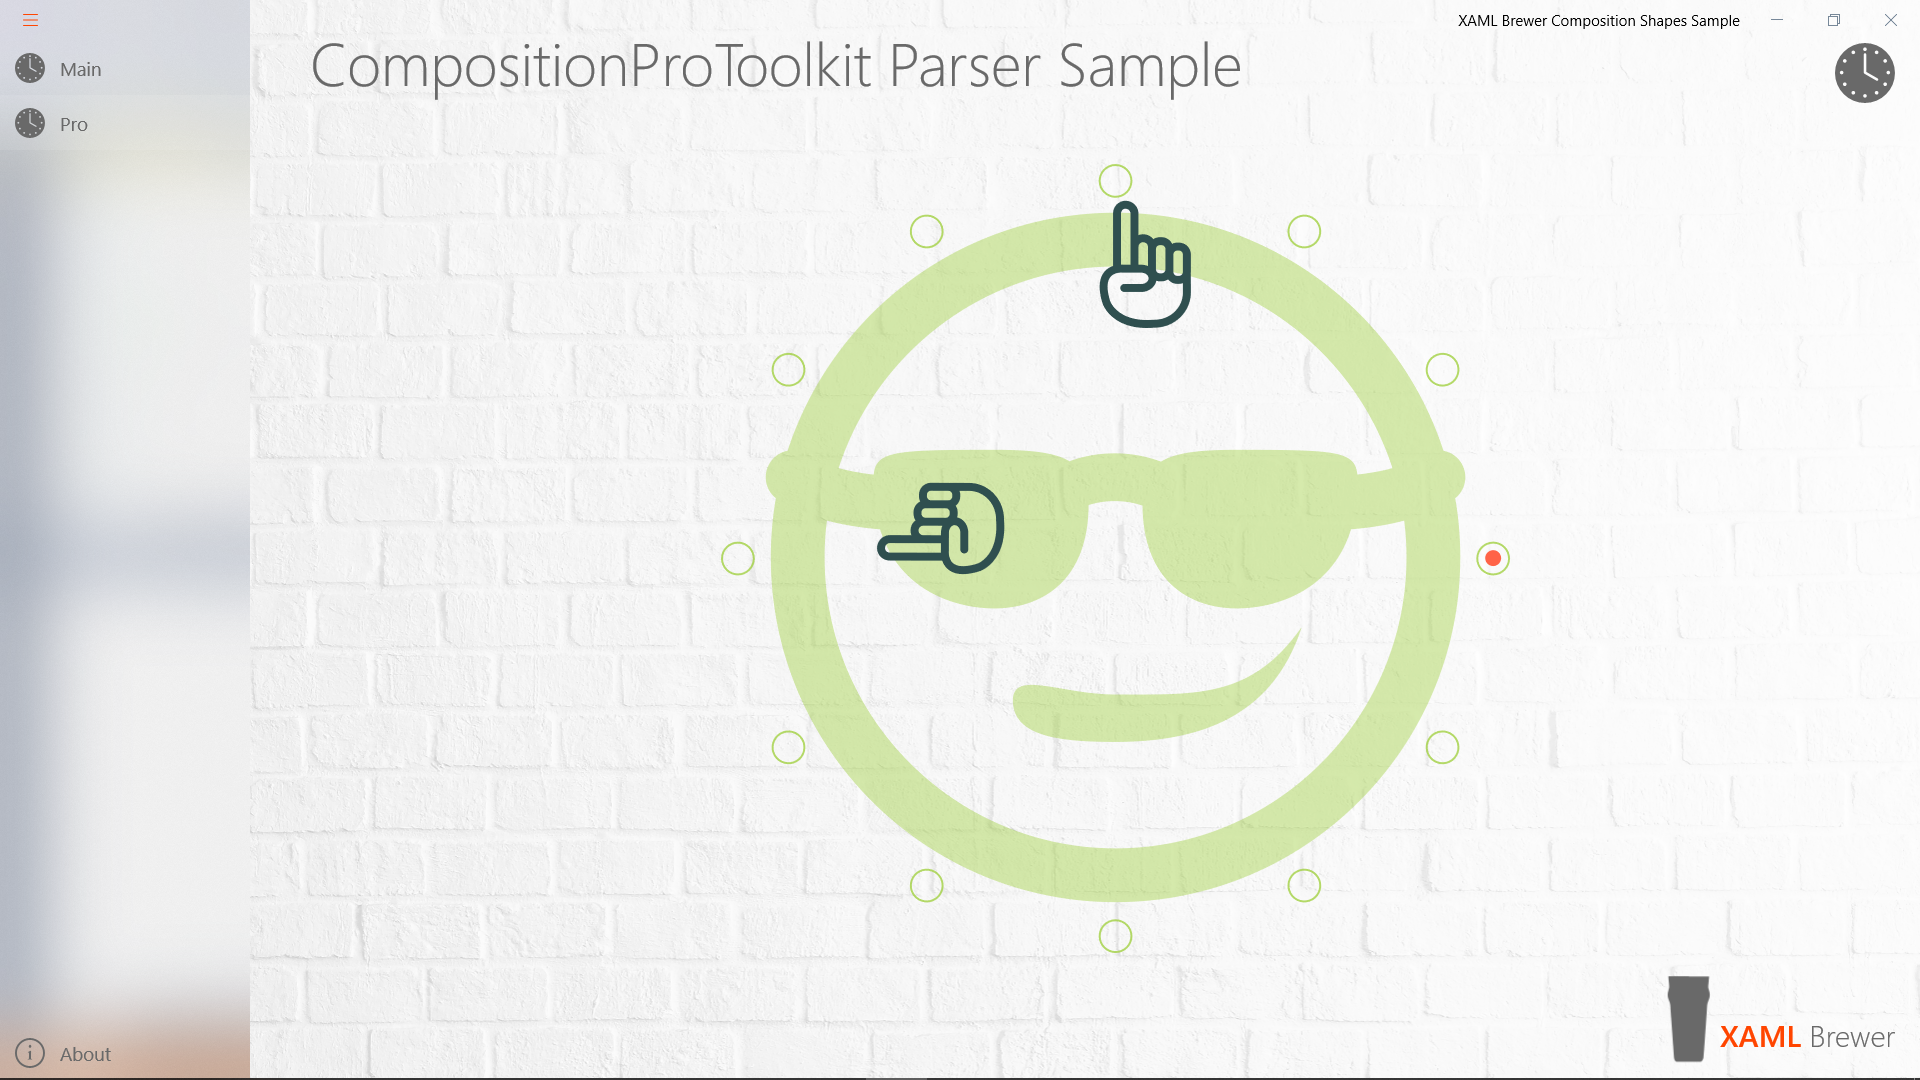
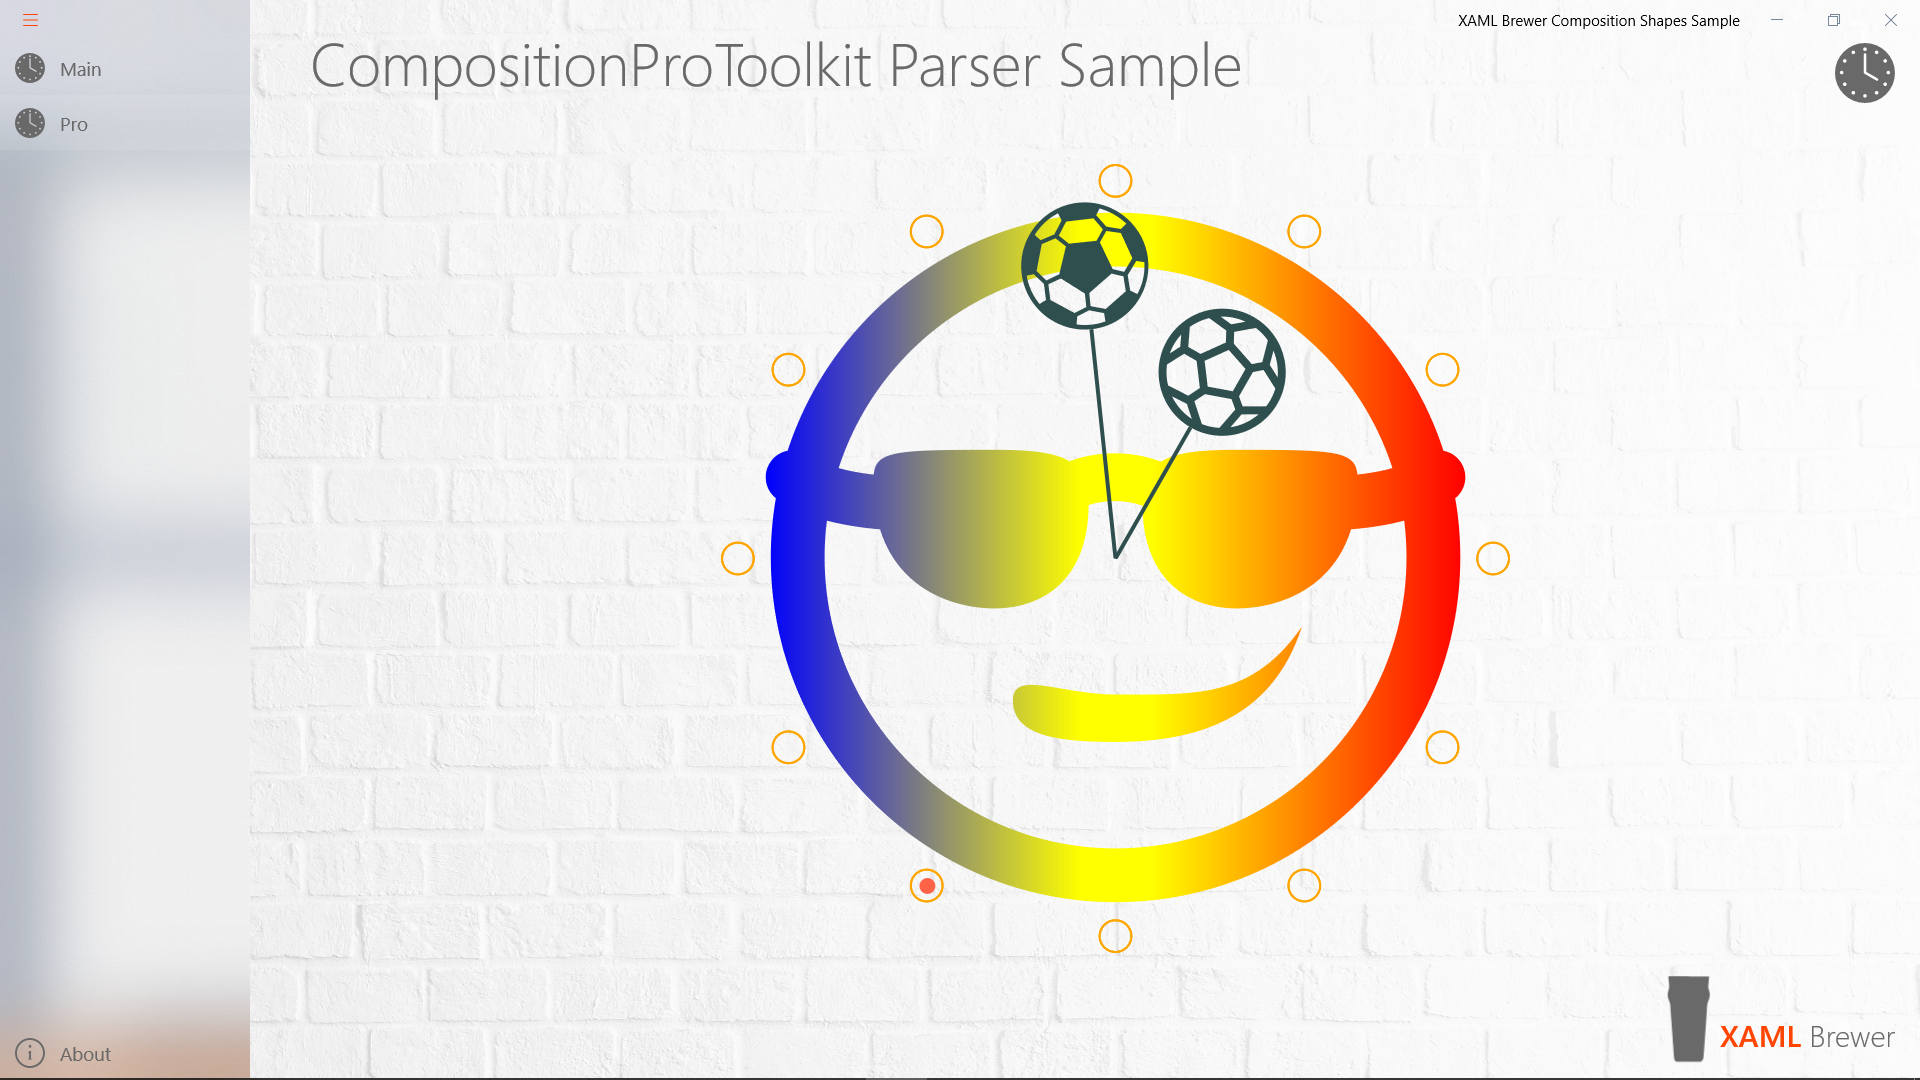
More complex shapes. Less complex code.

Changed region(s): [[0.375, 0.1528, 0.7812, 0.8861]]

diff --git a/XamlBrewer.Uwp.Composition.ShapesSample/Controls/ProClock.xaml.cs b/XamlBrewer.Uwp.Composition.ShapesSample/Controls/ProClock.xaml.cs
@@ -12,12 +12,16 @@ namespace XamlBrewer.Uwp.Controls
 {
     public sealed partial class ProClock : UserControl
     {
+        // Core
         private Compositor _compositor;
         private ContainerVisual _root;
 
-        private CompositionSpriteShape _hourhandSpriteShape;
-        private CompositionSpriteShape _minutehandSpriteShape;
+        // Shapes
+        private CompositionContainerShape _hourContainerShape;
+        private CompositionContainerShape _minuteContainerShape;
         private CompositionSpriteShape _secondhandSpriteShape;
+
+        // Animation
         private CompositionScopedBatch _batch;
 
         private DispatcherTimer _timer = new DispatcherTimer();
@@ -51,7 +55,12 @@ namespace XamlBrewer.Uwp.Controls
             facePathGeometry.Path = faceCompositionPath;
 
             var faceSpriteShape = _compositor.CreateSpriteShape(facePathGeometry);
-            faceSpriteShape.FillBrush = _compositor.CreateColorBrush(Color.FromArgb(0x66, 0x9A, 0xCD, 0x32));
+            var brush = _compositor.CreateLinearGradientBrush();
+            brush.ColorStops.Add(_compositor.CreateColorGradientStop(0f, Colors.Blue));
+            brush.ColorStops.Add(_compositor.CreateColorGradientStop(0.45f, Colors.Yellow));
+            brush.ColorStops.Add(_compositor.CreateColorGradientStop(0.55f, Colors.Yellow));
+            brush.ColorStops.Add(_compositor.CreateColorGradientStop(1f, Colors.Red));
+            faceSpriteShape.FillBrush = brush;
             faceSpriteShape.Offset = new Vector2(12.0f, 13.0f);
             faceSpriteShape.Scale = new Vector2(5.5f); ;
 
@@ -66,13 +75,15 @@ namespace XamlBrewer.Uwp.Controls
                 // SpriteVisual tick;
                 for (int i = 0; i < 12; i++)
                 {
+                    //var tickPath = "M12.981321,2.3376766C10.112283,4.0456734,9.0862758,9.2167526,8.6792905,11.264781L8.5952756,11.687759C8.4882801,12.200765 8.0492818,12.580775 7.5262678,12.610774 7.0102732,12.62179 6.5272682,12.315788 6.3612821,11.820787 6.0932748,11.020759 5.434274,9.7027507 4.5042446,8.0937238 4.4012473,9.374744 4.1832588,10.787755 3.7792644,11.388774L3.7812481,11.389782C1.6152482,14.572802 1.9792339,19.745864 2.0992296,21.445898 2.1232471,21.796884 2.1372549,21.987896 2.1322501,22.133894 2.7132475,29.441991 11.030289,29.958995 11.384295,29.977977L11.3893,29.978984C18.626347,30.366989,21.162375,24.867933,21.465356,24.117925L21.460351,24.087925 21.524379,23.868898C22.646395,20.020862,22.556367,16.784833,21.272362,14.758809L21.198386,14.627795C19.991347,12.086781 19.556348,10.451752 19.431346,9.3477359 18.508366,10.592745 18.09833,12.173788 17.90033,12.936797 17.90033,12.936797 17.578368,13.538793 17.383359,13.683784 17.196345,13.822794 16.723321,13.846811 16.723321,13.846811 16.193349,13.791787 15.789354,13.36478 15.762316,12.831785 15.648362,10.766758 13.78931,6.7087288 13.512331,6.2757097L13.406312,6.0917173C12.817319,4.7286949,12.852322,3.3426624,12.981321,2.3376766z M13.630032,5.2754642E-05C13.988285,0.0030336003 14.340338,0.13233079 14.615335,0.37363419 15.018353,0.72663501 15.199323,1.2516654 15.099347,1.7766651 14.954326,2.545656 14.686319,3.9686766 15.224348,5.2566858 15.578355,5.869699 16.401358,7.6497183 17.015315,9.4797569 17.461362,8.5927224 18.076358,7.6877132 18.930365,6.969718 19.409373,6.5647145 20.074357,6.4957133 20.624346,6.7847181 21.162375,7.068718 21.469384,7.6437369 21.407372,8.2487245 21.288354,9.4187513 21.817349,11.258769 22.980382,13.717781 24.555403,16.251836 24.719407,20.029865 23.455359,24.392921 23.293372,25.284931 22.416352,26.809942 21.317345,28.036945 19.669385,29.877969 16.767327,32.000001 12.150323,32.000001 11.867301,32.000001 11.577321,31.992008 11.282305,31.976017 7.6562736,31.796999 0.66422259,29.52799 0.13223667,22.211896L0.12424106,22.104902 0.14023227,21.996898C0.13324372,21.986888 0.12024314,21.818887 0.10422152,21.585882 -0.027768101,19.715866 -0.42776466,14.025798 2.124254,10.269743 2.2302425,9.9927631 2.5602314,8.7097278 2.5822346,6.3957062 2.5892537,5.7186966 3.0322499,5.140687 3.6862459,4.9606924 4.3362443,4.7846952 5.0102599,5.047699 5.362252,5.6247015 5.851269,6.4257055 6.5582745,7.6167283 7.1722615,8.7877317 7.9332836,5.7157059 9.531286,1.2696405 13.144316,0.07562668 13.303066,0.023440913 13.46719,-0.0013024495 13.630032,5.2754642E-05z";
                     var ellipseGeometry = _compositor.CreateEllipseGeometry();
                     ellipseGeometry.Radius = new Vector2(4.0f, 4.0f);
 
                     var tickSpriteShape = _compositor.CreateSpriteShape(ellipseGeometry);
+
                     tickSpriteShape.FillBrush = _compositor.CreateColorBrush(Colors.Transparent);
                     tickSpriteShape.StrokeThickness = 0.5f;
-                    tickSpriteShape.StrokeBrush = _compositor.CreateColorBrush(Color.FromArgb(0xBB, 0x9A, 0xCD, 0x32));
+                    tickSpriteShape.StrokeBrush = _compositor.CreateColorBrush(Colors.Orange);
                     tickSpriteShape.Offset = new Vector2(100.0f, 5.0f);
                     tickSpriteShape.CenterPoint = new Vector2(0.0f, 95.0f);
                     tickSpriteShape.RotationAngleInDegrees = i * 30;
@@ -97,33 +108,60 @@ namespace XamlBrewer.Uwp.Controls
             _secondhandSpriteShape.Offset = new Vector2(100f, 5f);
             _secondhandSpriteShape.CenterPoint = new Vector2(0.0f, 95.0f);
 
-            var handShapeVisual = _compositor.CreateShapeVisual();
-            handShapeVisual = _compositor.CreateShapeVisual();
-            handShapeVisual.Size = new Vector2(200.0f, 200.0f);
-            handShapeVisual.Shapes.Add(_secondhandSpriteShape);
-            _root.Children.InsertAtTop(handShapeVisual);
+            var shapeVisual = _compositor.CreateShapeVisual();
+            shapeVisual = _compositor.CreateShapeVisual();
+            shapeVisual.Size = new Vector2(200.0f, 200.0f);
+            shapeVisual.Shapes.Add(_secondhandSpriteShape);
+            _root.Children.InsertAtTop(shapeVisual);
             _secondhandSpriteShape.RotationAngleInDegrees = (float)(int)DateTime.Now.TimeOfDay.TotalSeconds * 6;
 
+            shapeVisual.Shapes.Add(containerShape);
+
             // Hour Hand
-            pathData = "M5.4985821,18.057423C4.918455,18.058264 3.5173249,18.173275 2.7009144,19.187313 1.7689097,20.345285 1.7639097,22.472235 2.6849146,25.336166 2.7549148,25.518162 4.7979251,30.666039 13.64697,29.926056 15.727981,29.942057 17.56599,29.201075 18.941997,27.837107 20.236003,26.555138 20.949007,24.867178 20.949007,23.08322L20.945943,20.727419 20.841051,20.76297C20.559425,20.850718,20.260129,20.898003,19.950004,20.898003L19.556005,20.898003C18.625632,20.898003,17.792712,20.472437,17.241986,19.805511L17.208552,19.762995 17.110358,19.82601C16.656746,20.101946,16.124579,20.260994,15.556017,20.260994L15.163018,20.260994C14.852893,20.260994,14.553596,20.213675,14.27197,20.125875L14.262194,20.12256 14.247074,20.197342C13.884972,21.760424,12.319589,22.940224,10.447954,22.940224L6.1909325,22.940224C5.6389294,22.940224 5.1909271,22.492233 5.1909274,21.940247 5.1909271,21.38826 5.6389294,20.940271 6.1909325,20.940271L10.447954,20.940271C11.465959,20.940271 12.325963,20.283287 12.325963,19.506306 12.325963,18.728323 11.465959,18.071339 10.447954,18.071339L5.8669305,18.071339C5.8319304,18.071339 5.7969303,18.06934 5.76193,18.066339 5.7590861,18.065903 5.6610174,18.057186 5.4985821,18.057423z M19.556005,12.521002C19.038507,12.521002,18.612414,12.915631,18.561174,13.41897L18.556015,13.52087 18.556015,17.260996 18.556008,17.898003C18.556008,18.450003,19.004007,18.898003,19.556005,18.898003L19.950004,18.898003C20.501003,18.898003,20.950002,18.450003,20.950002,17.898003L20.950002,13.521002C20.950002,12.970002,20.501003,12.521002,19.950004,12.521002z M15.163018,11.156998C14.611018,11.156998,14.163019,11.605998,14.163019,12.156998L14.163019,17.260996C14.163019,17.811995,14.611018,18.260996,15.163018,18.260996L15.556017,18.260996C16.07258,18.260996,16.499493,17.866365,16.55084,17.363028L16.556012,17.261089 16.556012,13.521002 16.556016,12.156998C16.556016,11.605998,16.107017,11.156998,15.556017,11.156998z M10.966014,10.422006C10.348202,10.422006,9.8376169,10.886947,9.776207,11.479824L9.7700343,11.599635 9.7700343,13.573996 9.7700152,13.574373 9.7700152,16.071388 10.447954,16.071388C11.049551,16.071388,11.619506,16.193281,12.128033,16.410637L12.159335,16.424856 12.163013,16.348003 12.163013,11.600005C12.163013,10.951005,11.626013,10.422006,10.966014,10.422006z M6.5230465,1.9999924C5.8690224,1.9999921,5.37604,2.5270002,5.37604,3.2269967L5.37604,16.058529 5.4411616,16.057322C5.6611521,16.055147,5.8246179,16.064638,5.9099309,16.071388L7.7700167,16.071388 7.7700167,11.600005 7.7700286,11.599538 7.7700286,3.2269967C7.7700286,2.5499952,7.2110367,1.9999921,6.5230465,1.9999924z M6.5240231,0C8.3140368,0,9.7700343,1.4480056,9.7700343,3.2269967L9.7700343,8.6536684 9.8679652,8.6152C10.210494,8.490242 10.580359,8.4220057 10.966014,8.4220057 11.957701,8.4220057 12.84529,8.8732004 13.432115,9.5798149L13.497941,9.6630468 13.608677,9.5919828C14.062288,9.3160477,14.594455,9.1569986,15.163018,9.1569986L15.556017,9.1569986C16.693141,9.1569986,17.684687,9.7931938,18.193356,10.728285L18.242692,10.82447 18.256628,10.817322C18.649995,10.627473,19.090819,10.521002,19.556005,10.521002L19.950004,10.521002C21.604002,10.521002,22.949998,11.867002,22.949998,13.521002L22.949998,17.898003C22.949998,18.00144,22.94474,18.103666,22.934478,18.20443L22.924722,18.280989 22.937686,18.365147C22.94115,18.398743,22.942955,18.432831,22.943017,18.467331L22.949018,23.08222C22.949018,25.404165 22.026014,27.597113 20.350004,29.258072 18.591996,31.001032 16.238984,31.939009 13.721971,31.92301 13.073967,31.978008 12.456964,32.003006 11.868961,32.003006 3.0589163,32.003006 0.88590527,26.241144 0.79190493,25.98015 -0.37610126,22.350237 -0.25010061,19.647303 1.1569066,17.915344 1.7644097,17.167612 2.5206948,16.71631 3.2527398,16.446163L3.3760343,16.403019 3.3760343,3.2269967C3.3760342,1.4169997,4.7590338,0,6.5240231,0z";
-            _hourhandSpriteShape = _compositor.CreateSpriteShape(pathData);
-            _hourhandSpriteShape.FillBrush = _compositor.CreateColorBrush(Colors.DarkSlateGray);
-            _hourhandSpriteShape.Offset = new Vector2(96.0f, 40f);
-            _hourhandSpriteShape.CenterPoint = new Vector2(4.0f, 60.0f);
-            handShapeVisual = _compositor.CreateShapeVisual();
-            handShapeVisual.Size = new Vector2(200.0f, 200.0f);
-            handShapeVisual.Shapes.Add(_hourhandSpriteShape);
-            _root.Children.InsertAtTop(handShapeVisual);
+            _hourContainerShape = _compositor.CreateContainerShape();
+            _hourContainerShape.CenterPoint = new Vector2(100f, 100f);
+            pathData = "M12.255911,27.32522L8.0630484,27.526361 8.1864796,27.611752C10.140031,28.930496,12.442738,29.76969,14.92437,29.959103L15.196924,29.976429z M21.404467,20.694029L14.985744,22.932507 13.552003,25.799997 18.044802,29.85059 18.080431,29.845798C19.57408,29.62236,20.991337,29.162128,22.29265,28.50465L22.345871,28.476482 23.529955,22.503323z M29.210682,20.634453L25.517668,22.762606 24.683252,26.97184 24.932693,26.772383C26.819304,25.205297,28.289207,23.153034,29.149136,20.808857z M5.3831925,16.709015L2.9988379,21.193972 3.0042195,21.207821C3.6518717,22.818348,4.5906091,24.281637,5.7549496,25.532206L5.8481069,25.630014 11.536957,25.357107 13.102927,22.225155 8.9967108,16.709015z M2.3533926,12.871181L2.2993231,13.112665C2.1031716,14.04466 2,15.010502 2,16 2,16.804792 2.0682492,17.593935 2.199264,18.361946L2.2096035,18.418463 3.6656468,15.680605z M24.760532,10.328215L22.692017,12.111796 22.692017,19.163755 24.737003,20.902988 29.863638,17.949438 29.887318,17.780693C29.96167,17.197456 30,16.603123 30,16 30,15.019572 29.89871,14.062368 29.706047,13.138304L29.65974,12.931304z M14.649007,10.308994L10.740002,15.702001 14.637007,20.937008 20.692013,18.825005 20.692013,12.370996z M6.4617815,5.7615499L6.2999635,5.9137912C5.0581431,7.1085043,4.0357132,8.529705,3.2998557,10.110212L3.285491,10.142103 5.4200115,14.709007 8.9903822,14.709007 13.097117,9.0434904 11.682418,6.3801508 6.4570179,5.8049932z M24.500578,4.883769L25.476269,8.44454 28.727886,10.17196 28.702246,10.114729C27.758574,8.0859718,26.342802,6.3194904,24.596939,4.9572902z M17.810635,2.1168842L13.578016,5.6880093 14.969813,8.3058071 21.471794,10.522912 23.493984,8.7790184 22.007908,3.3556633 21.997314,3.3504777C20.792271,2.7768824,19.492863,2.3705254,18.129286,2.1615987z M14.783471,2.0534487L14.570561,2.0724125C12.477295,2.2856328,10.519001,2.9618855,8.8000307,3.9968209L8.7258015,4.0426617 11.998716,4.4028473z M16,0C24.822021,0 32,7.1779785 32,16 32,24.822021 24.822021,32 16,32 7.1779785,32 0,24.822021 0,16 0,7.1779785 7.1779785,0 16,0z";
+            var spriteShape = _compositor.CreateSpriteShape(pathData);
+            spriteShape.FillBrush = _compositor.CreateColorBrush(Colors.DarkSlateGray);
+            spriteShape.Offset = new Vector2(84.0f, 30f);
+            shapeVisual = _compositor.CreateShapeVisual();
+            shapeVisual.Size = new Vector2(200.0f, 200.0f);
+            _hourContainerShape.Shapes.Add(spriteShape);
+
+            var line = _compositor.CreateLineGeometry();
+            line.Start = new Vector2(100f, 62f);
+            line.End = new Vector2(100f, 100f);
+            spriteShape = _compositor.CreateSpriteShape(line);
+            spriteShape.FillBrush = _compositor.CreateColorBrush(Colors.DarkSlateGray);
+            spriteShape.StrokeBrush = _compositor.CreateColorBrush(Colors.DarkSlateGray);
+            spriteShape.StrokeThickness = 1f;
+            _hourContainerShape.Shapes.Add(spriteShape);
+
+            shapeVisual.Shapes.Add(_hourContainerShape);
+            _root.Children.InsertAtTop(shapeVisual);
 
             // Minute Hand
-            _minutehandSpriteShape = _compositor.CreateSpriteShape(pathData);
-            _minutehandSpriteShape.FillBrush = _compositor.CreateColorBrush(Colors.DarkSlateGray);
-            _minutehandSpriteShape.Offset = new Vector2(96.0f, 10.0f);
-            _minutehandSpriteShape.CenterPoint = new Vector2(4.0f, 90.0f);
-            handShapeVisual = _compositor.CreateShapeVisual();
-            handShapeVisual.Size = new Vector2(200.0f, 200.0f);
-            handShapeVisual.Shapes.Add(_minutehandSpriteShape);
-            _root.Children.InsertAtTop(handShapeVisual);
+            _minuteContainerShape = _compositor.CreateContainerShape();
+            _minuteContainerShape.CenterPoint = new Vector2(100f, 100f);
+            pathData = "M15.9,27.2L12.8,28.4 12.4,30.4C14.8,31,17.4,31,19.7,30.4L19.6,28.3z M22.5,18.6L16.4,22.9 16.4,26.2 20.1,27.3 25.599999,23.4 25.4,19.6z M9.6999998,18.5L6.3999996,19.6 6.5,23.599999 12.2,27.5 15.3,26.3 15.3,22.9z M3,16.7L1.1999998,16.9C1.3999996,19.6,2.1999998,22.1,3.6999998,24.3L5.3999996,23.5 5.3000002,19.4z M29,16.1L26.5,19.4 26.7,23.3 28.4,24.4C30,22.1,30.9,19.4,31,16.6z M9.3999996,8.2999997L5.7999997,9.4000001 3.8000002,16 6,18.6 9.3999996,17.4 11.8,10.6z M22.3,7.7999997L20.4,10.5 22.9,17.5 25.7,18.5 28.099999,15.3 25.9,8.6999998z M19.4,4.3000002L12.5,4.3999996 10.3,7.6999998 12.6,10 19.6,10 21.5,7.2999997z M10.7,2.0999994C8.1999998,3.0999994,6,4.6999998,4.3000002,6.9000001L5.5999994,8.4000001 9.1999998,7.2999997 11.4,4z M21.2,2L20.2,3.5999994 22.4,6.6999998 26,7.6999998 27.5,6.5C25.8,4.5,23.7,3,21.2,2z M16,0C24.8,0 32,7.1999998 32,16 32,24.8 24.8,32 16,32 7.1999998,32 0,24.8 0,16 0,7.1999998 7.1999998,0 16,0z";
+            spriteShape = _compositor.CreateSpriteShape(pathData);
+            spriteShape.FillBrush = _compositor.CreateColorBrush(Colors.DarkSlateGray);
+            spriteShape.Offset = new Vector2(84.0f, 10.0f);
+            shapeVisual = _compositor.CreateShapeVisual();
+            shapeVisual.Size = new Vector2(200.0f, 200.0f);
+            _minuteContainerShape.Shapes.Add(spriteShape);
+
+            line = _compositor.CreateLineGeometry();
+            line.Start = new Vector2(100f, 42f);
+            line.End = new Vector2(100f, 100f);
+            spriteShape = _compositor.CreateSpriteShape(line);
+            spriteShape.FillBrush = _compositor.CreateColorBrush(Colors.DarkSlateGray);
+            spriteShape.StrokeBrush = _compositor.CreateColorBrush(Colors.DarkSlateGray);
+            spriteShape.StrokeThickness = 1f;
+            _minuteContainerShape.Shapes.Add(spriteShape);
+
+            shapeVisual.Shapes.Add(_minuteContainerShape);
+            _root.Children.InsertAtTop(shapeVisual);
 
             SetHoursAndMinutes();
 
@@ -167,8 +205,8 @@ namespace XamlBrewer.Uwp.Controls
         private void SetHoursAndMinutes()
         {
             var now = DateTime.Now;
-            _hourhandSpriteShape.RotationAngleInDegrees = (float)now.TimeOfDay.TotalHours * 30;
-            _minutehandSpriteShape.RotationAngleInDegrees = now.Minute * 6;
+            _hourContainerShape.RotationAngleInDegrees = (float)now.TimeOfDay.TotalHours * 30;
+            _minuteContainerShape.RotationAngleInDegrees = now.Minute * 6;
         }
     }
 }
